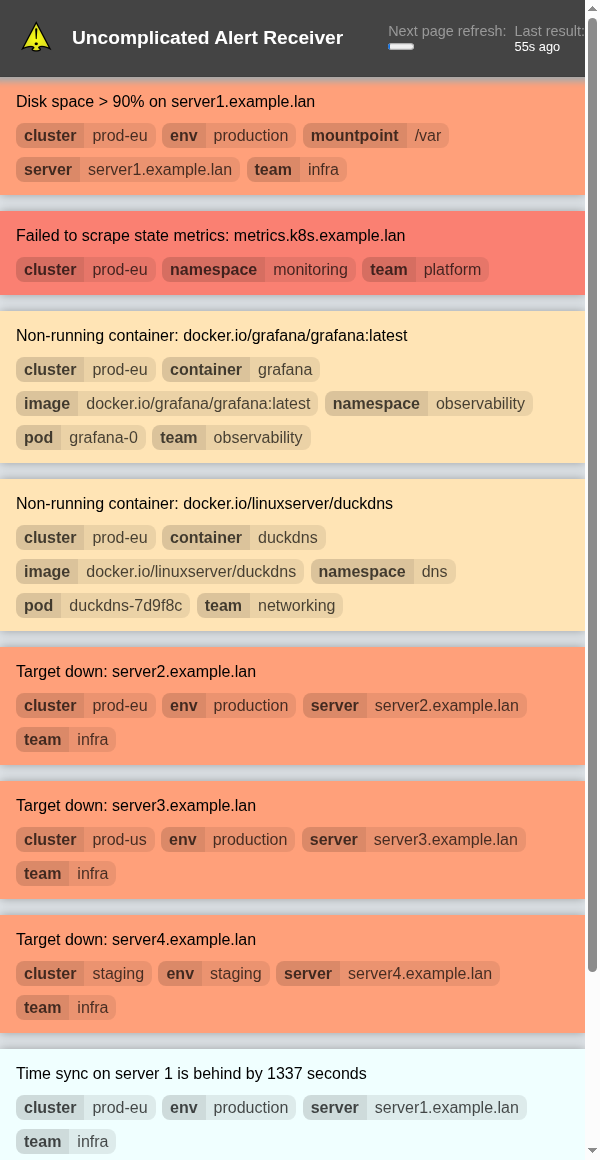
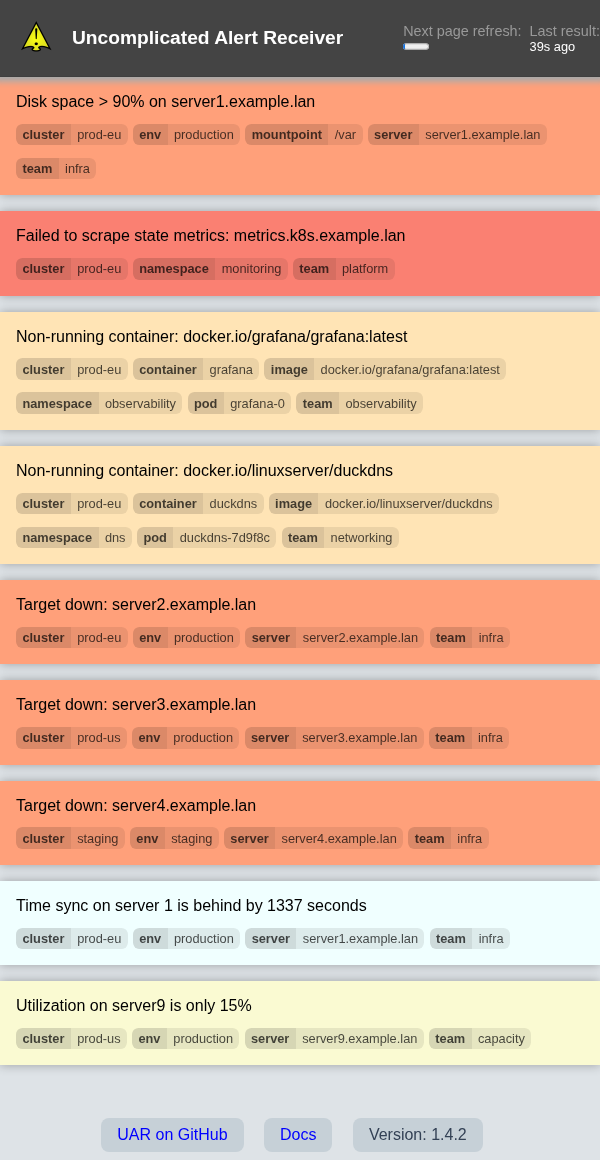
fix: reduce font-size of labels

diff --git a/frontend/css/style.css b/frontend/css/style.css
@@ -179,7 +179,8 @@ a:focus {
 
 span.label,
 button.label {
-  font-size: smaller;
+  font: inherit;
+  font-size: 0.8em;
   color: rgba(0, 0, 0, 0.7);
   display: inline-flex;
   max-width: 100%;
@@ -189,7 +190,6 @@ button.label {
   border: none;
   background: none;
   padding: 0;
-  font: inherit;
   white-space: nowrap;
   vertical-align: bottom;
   overflow: hidden;
